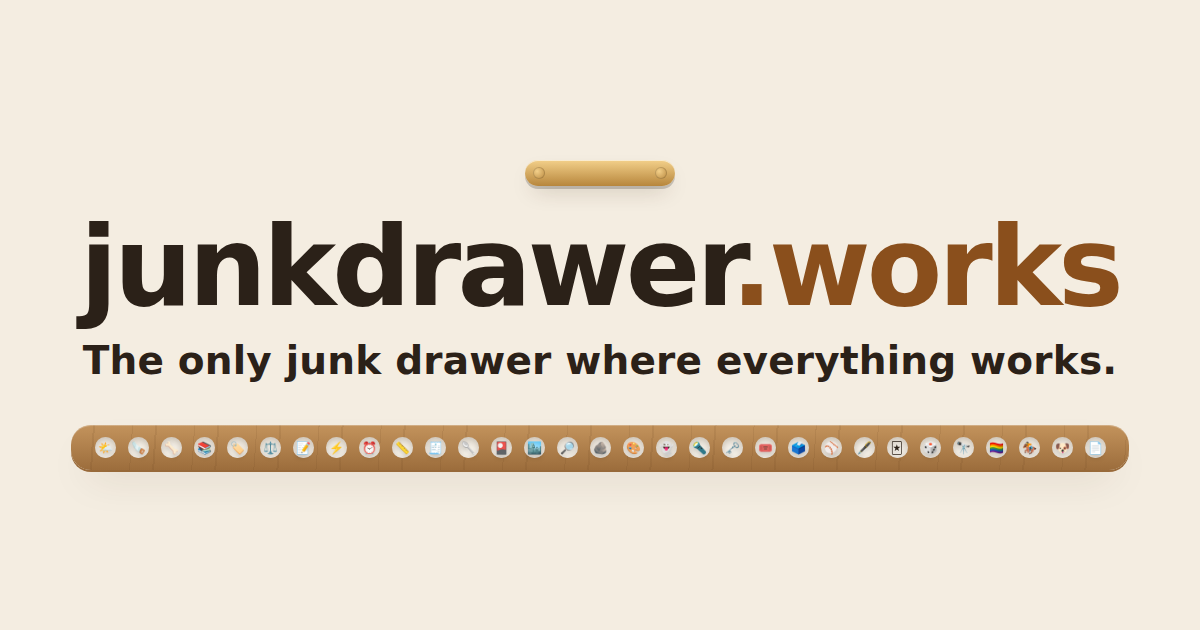
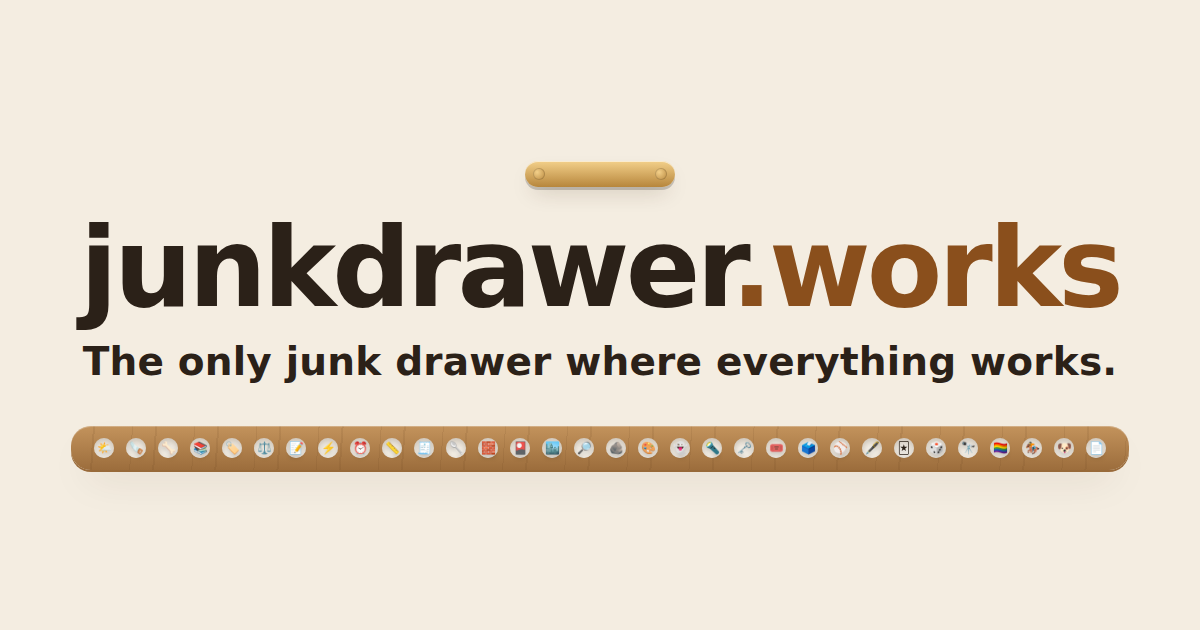
Add Brickyard to the Tools tray
A tile for Brickyard (brickyard.junkdrawer.works), the redrawn share
image, and a privacy note about the set pictures it loads from Rebrickable.

Claude-Session: https://claude.ai/code/session_015SEBvh5HcPaX7LG7T1qT5G

diff --git a/privacy.html b/privacy.html
@@ -33,7 +33,7 @@
 <main>
   <a class="back" href="/">‹ junkdrawer.works</a>
   <h1>Privacy</h1>
-  <p class="date">Last updated September 27, 2026</p>
+  <p class="date">Last updated October 4, 2026</p>
   <p class="lede">Everything in the junk drawer runs in your browser. The projects here have no server of their own, no accounts, no analytics and no cookies. What you make stays in your browser, and a few projects can also keep a copy in your own Google Drive if you turn that on.</p>
 
   <h2>Where your things are kept</h2>
@@ -64,6 +64,7 @@
     <li><b>GitHub Pages</b> serves the pages, like any website host. GitHub's own logs may record that your browser loaded them.</li>
     <li><b>Google Fonts</b> supplies the typefaces for some projects, so Google sees your browser load them.</li>
     <li><b>Google sign-in</b> is loaded from accounts.google.com only in projects that offer Google Drive, when you open that option or once you've connected.</li>
+    <li><b>Rebrickable</b> supplies the set pictures in Brickyard. Your browser asks for each picture by set number, and nothing else about your catalog is sent. You can turn the pictures off in Brickyard's menu.</li>
     <li>Anything else a single project uses, such as book covers in Shelfmark, is listed on that project's own page.</li>
   </ul>
 

diff --git a/index.html b/index.html
@@ -303,6 +303,13 @@
         <p>The family recipe box, for the recipes on stained index cards. Photograph a card and Claude types it up, then scale it, switch cups to grams and cook from it with the screen kept on. It syncs through your own Google Drive.</p>
         <span class="go" aria-hidden="true">Open →</span>
       </a>
+      <a class="slot" href="https://brickyard.junkdrawer.works/">
+        <span class="obj" aria-hidden="true">🧱</span>
+        <span class="label">New</span>
+        <h3>Brickyard</h3>
+        <p>Every LEGO set you own: where it is, whether it's built, and which moving box it's packed in. Send Claude photos of the boxes and it adds them.</p>
+        <span class="go" aria-hidden="true">Open →</span>
+      </a>
       </div>
     </section>
 
